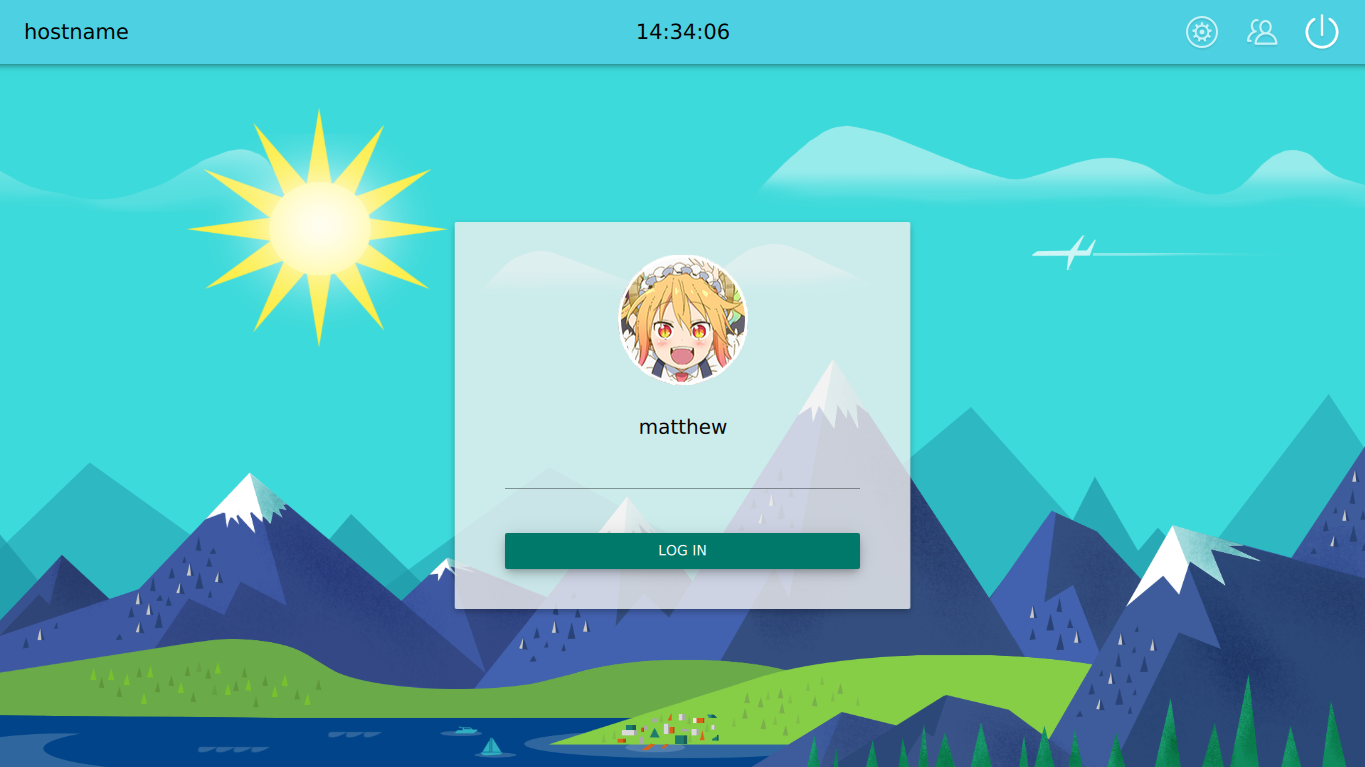
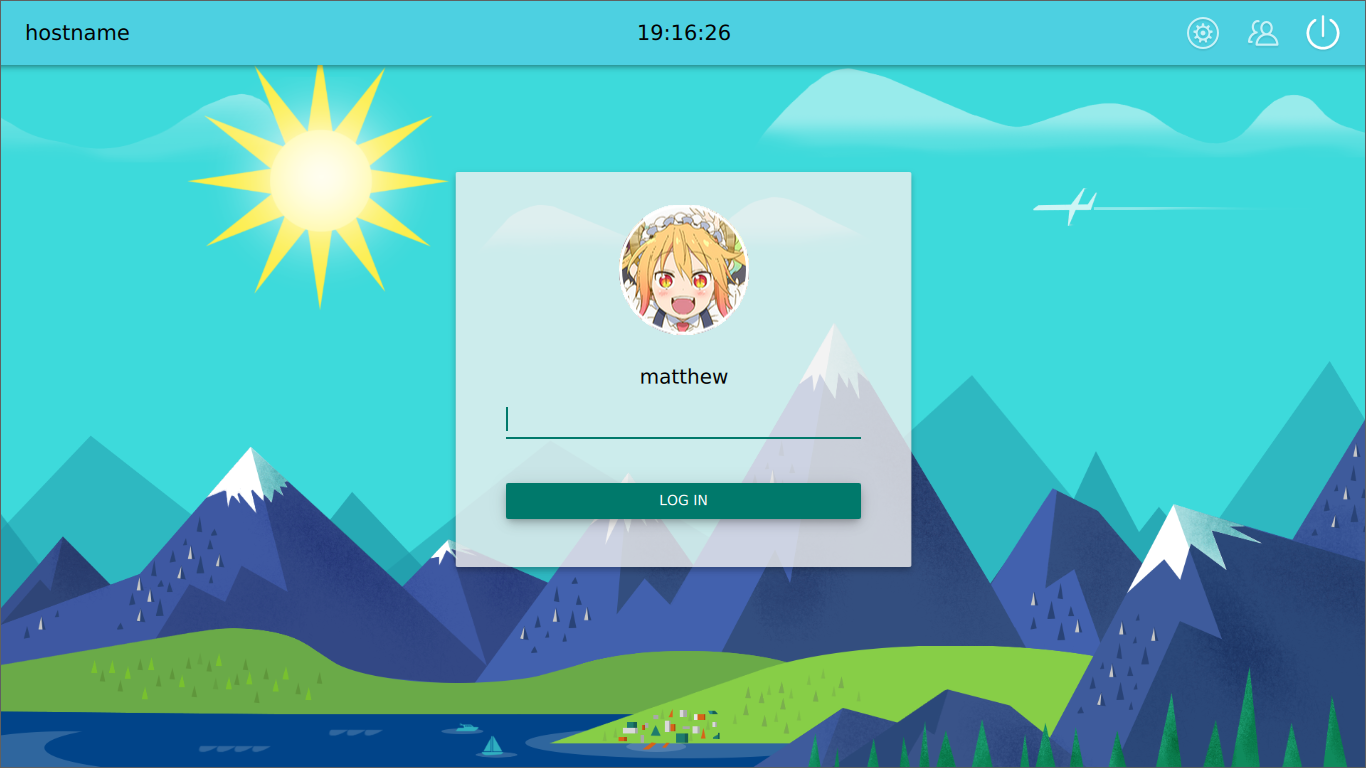
Adjust spacing a bit

diff --git a/Main.qml b/Main.qml
@@ -79,7 +79,7 @@ Rectangle {
         }
     }
 
-    Page {
+    Item {
         id: mainFrame
         property variant geometry: screenModel.geometry(screenModel.primary)
         x: geometry.x; y: geometry.y; width: geometry.width; height: geometry.height
@@ -100,7 +100,7 @@ Rectangle {
         Item {
             id: centerArea
             width: parent.width
-            height: parent.height * 3 /  5
+            height: parent.height * 3 /  5 - 30
             anchors.top: parent.top
             anchors.topMargin: parent.height / 5
 
@@ -158,7 +158,7 @@ Rectangle {
             }
         }
 
-        header: ToolBar {
+        ToolBar {
             id: topArea
             visible: ! loginFrame.isProcessing
             anchors {
